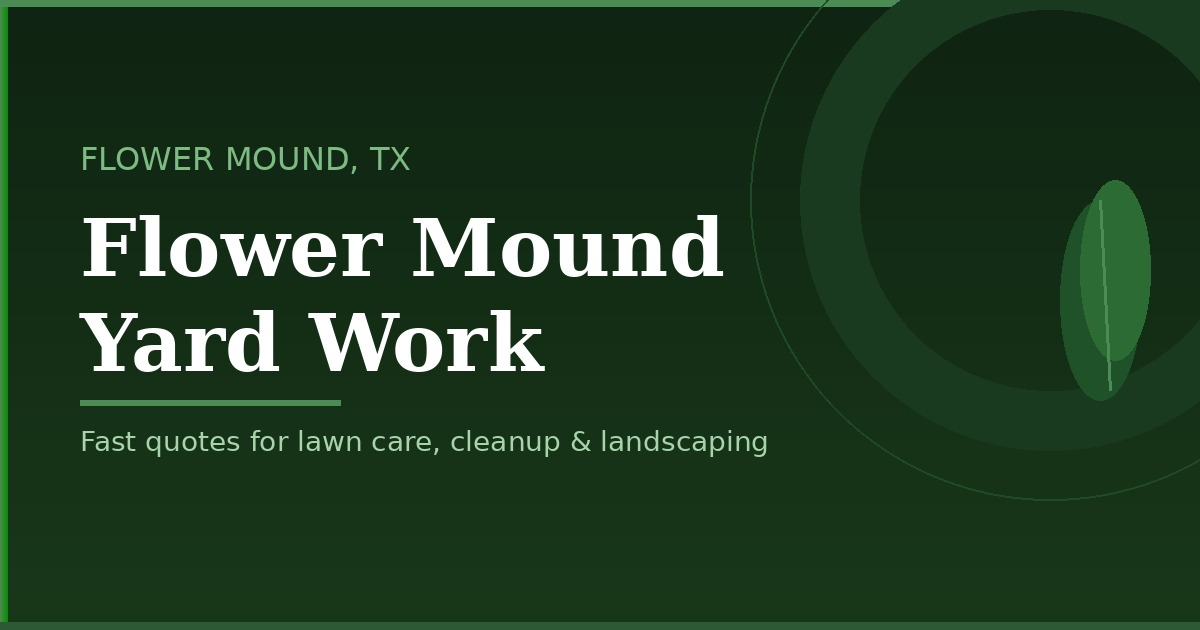
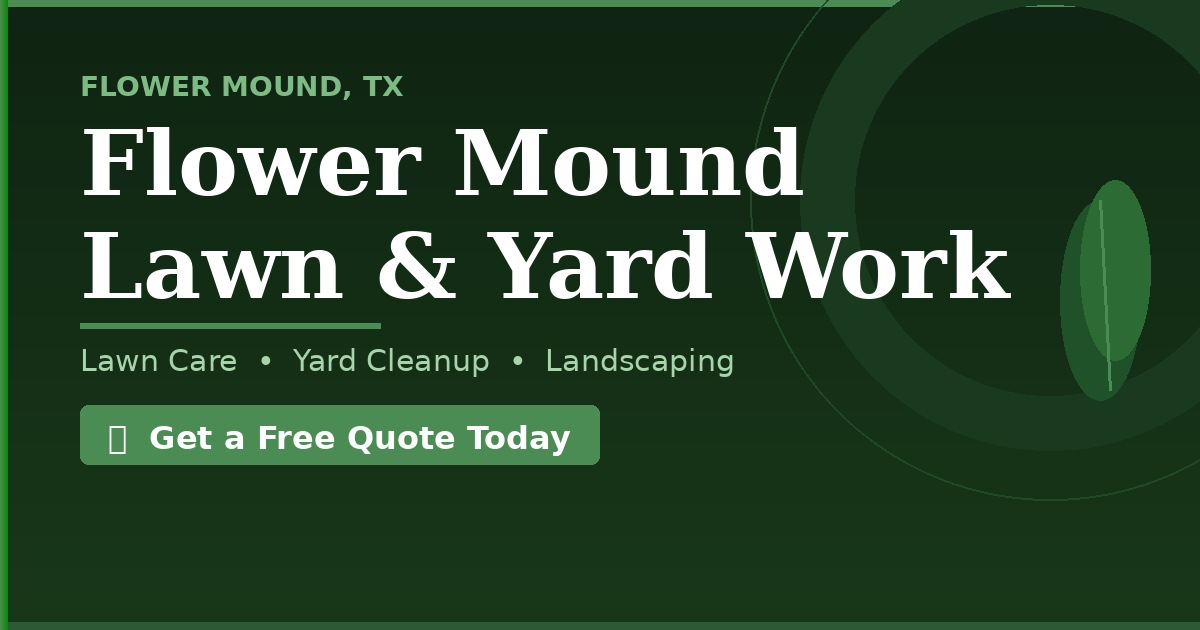
fix og image cta button width

diff --git a/pages/index.js b/pages/index.js
@@ -50,19 +50,19 @@ export default function Home() {
   return (
     <>
       <Head>
-        <title>Flower Mound Lawn Care & Landscaping</title>
-        <meta name="description" content="Get lawn care and landscaping help in Flower Mound, TX." />
+        <title>Flower Mound Lawn Care & Yard Work | Fast Local Quotes</title>
+        <meta name="description" content="Get fast quotes for lawn care, yard cleanup, and landscaping in Flower Mound, TX. Local crews. Same-day responses. No obligation." />
         <meta name="viewport" content="width=device-width, initial-scale=1" />
 
-        <meta property="og:title" content="Flower Mound Yard Work" />
-        <meta property="og:description" content="Get lawn care, yard cleanup, and landscaping help from a local Flower Mound crew." />
+        <meta property="og:title" content="Flower Mound Lawn Care & Yard Work | Fast Local Quotes" />
+        <meta property="og:description" content="Get fast quotes for lawn care, yard cleanup, and landscaping in Flower Mound. Local crews respond quickly. No obligation." />
         <meta property="og:image" content="https://www.flowermoundyardwork.com/og-image.jpg" />
         <meta property="og:url" content="https://www.flowermoundyardwork.com/" />
         <meta property="og:type" content="website" />
 
         <meta name="twitter:card" content="summary_large_image" />
-        <meta name="twitter:title" content="Flower Mound Yard Work" />
-        <meta name="twitter:description" content="Get lawn care, yard cleanup, and landscaping help from a local Flower Mound crew." />
+        <meta name="twitter:title" content="Flower Mound Lawn Care & Yard Work | Fast Local Quotes" />
+        <meta name="twitter:description" content="Get fast quotes for lawn care, yard cleanup, and landscaping in Flower Mound. Local crews respond quickly." />
         <meta name="twitter:image" content="https://www.flowermoundyardwork.com/og-image.jpg" />
       </Head>
 
